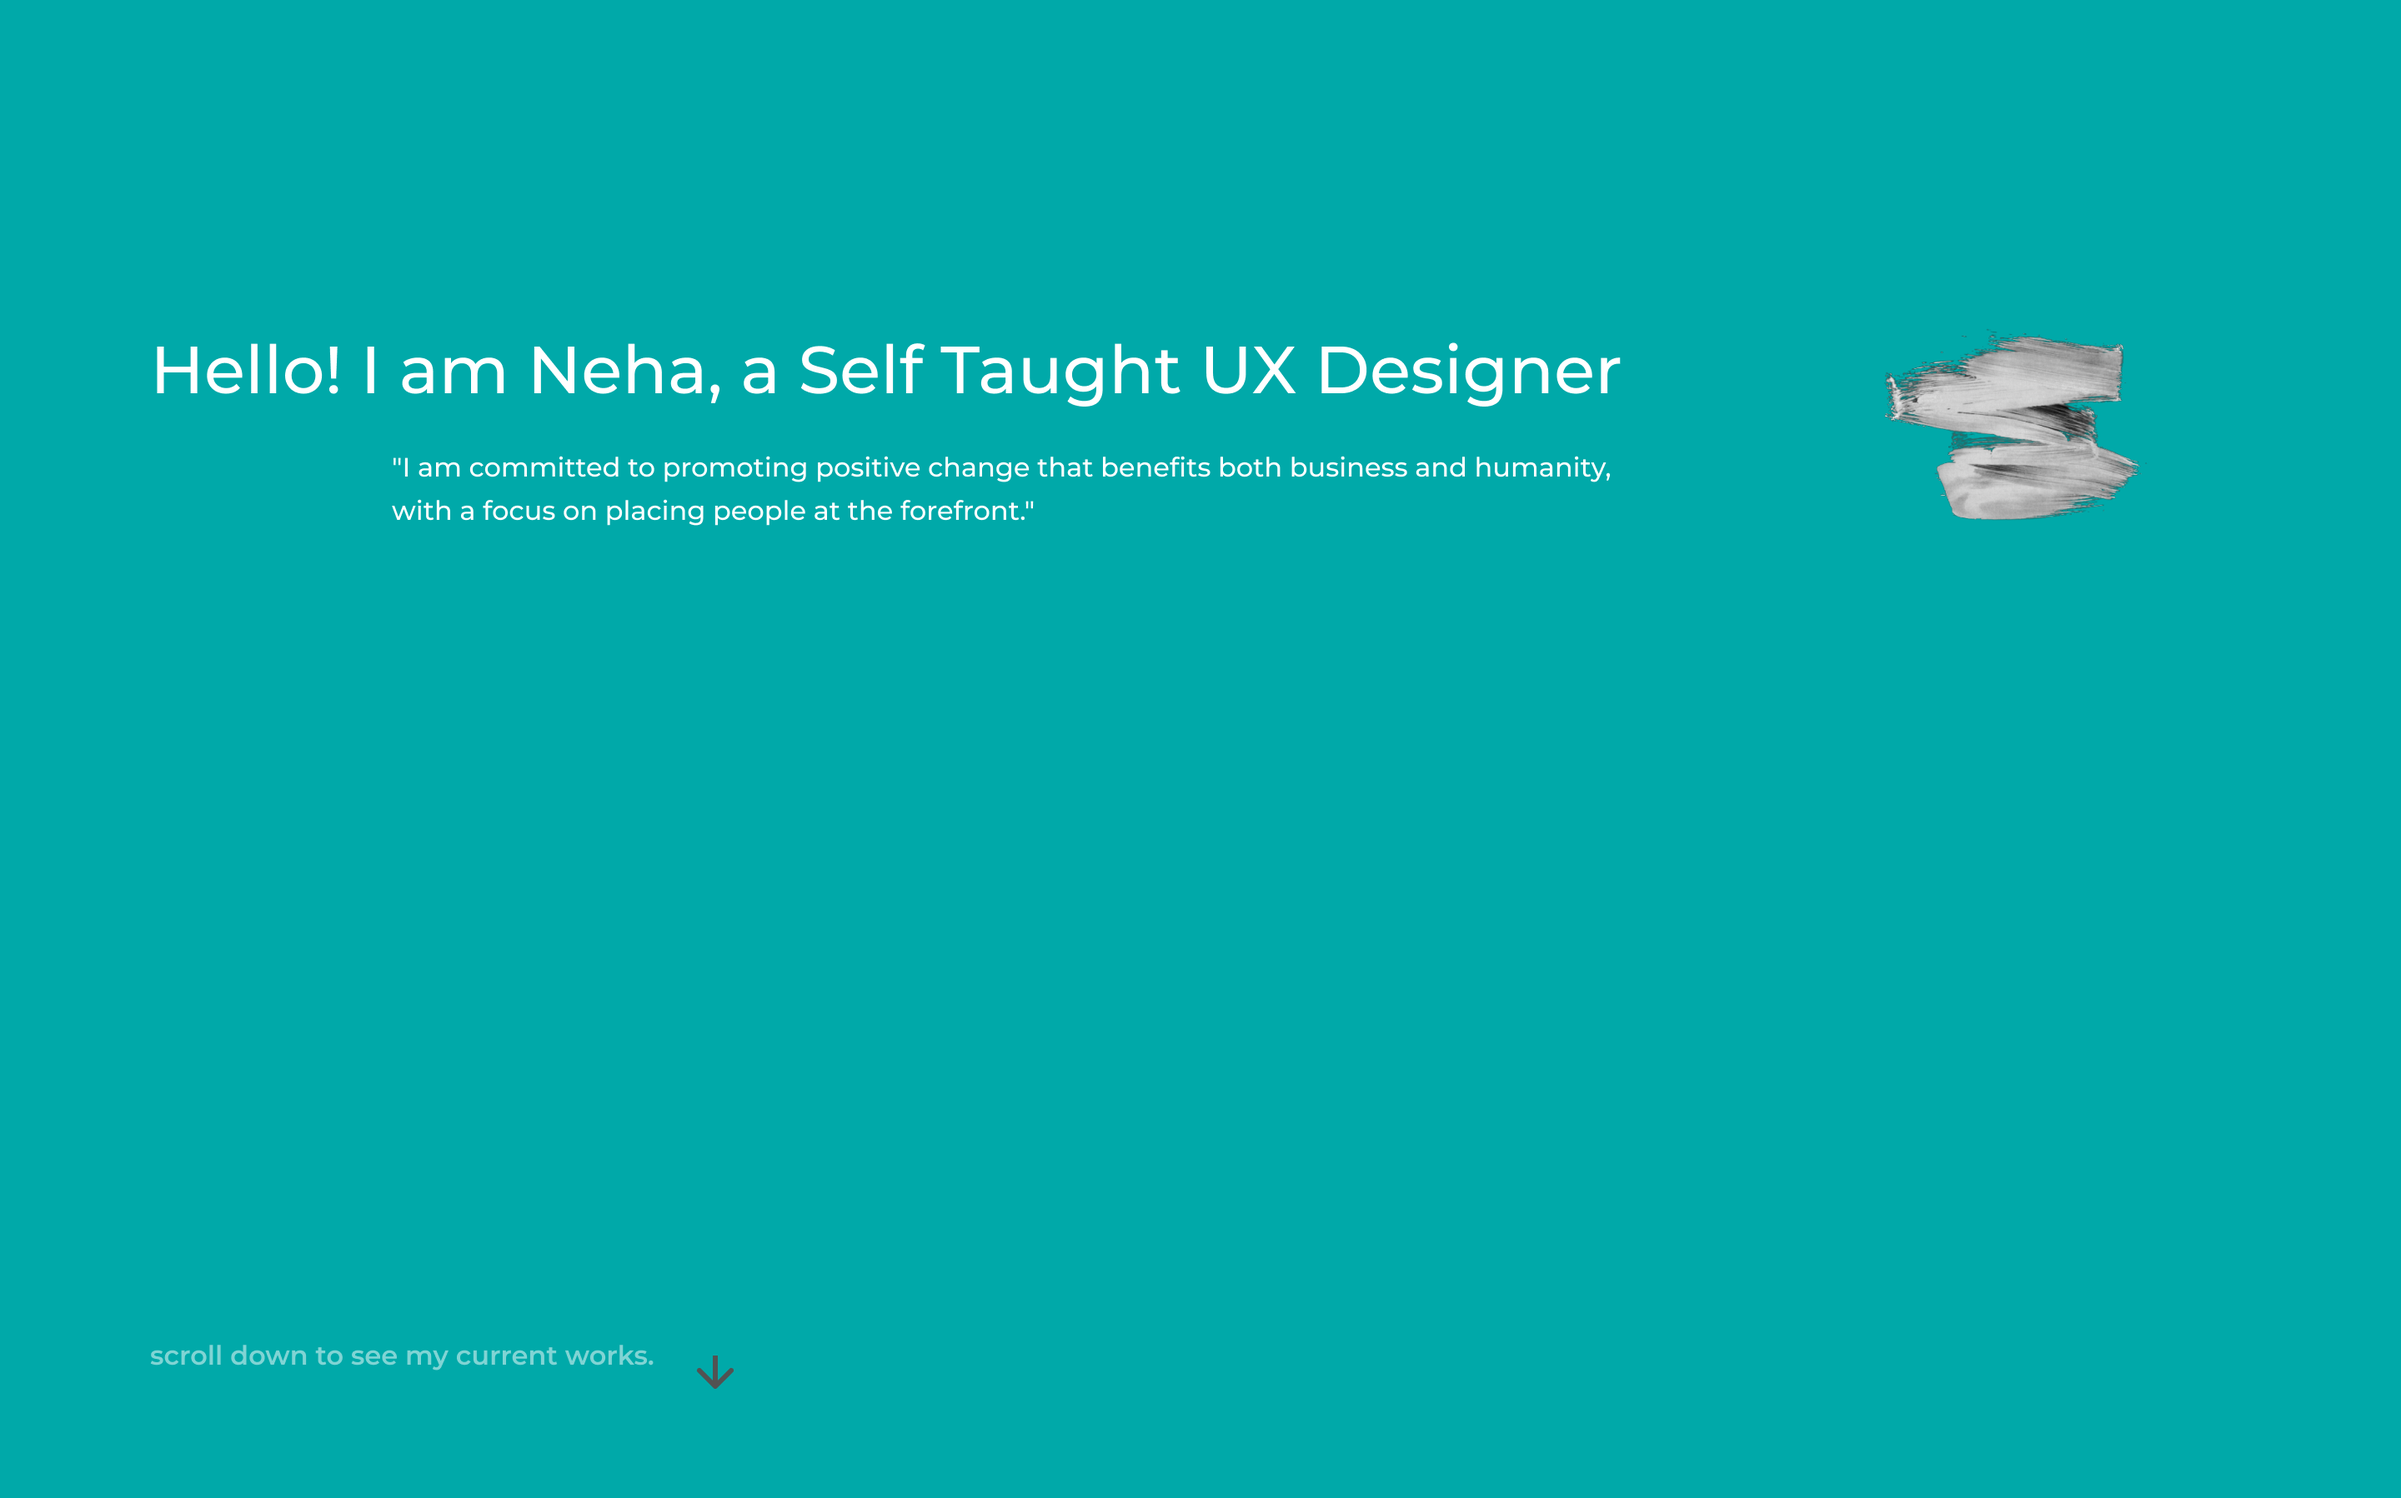
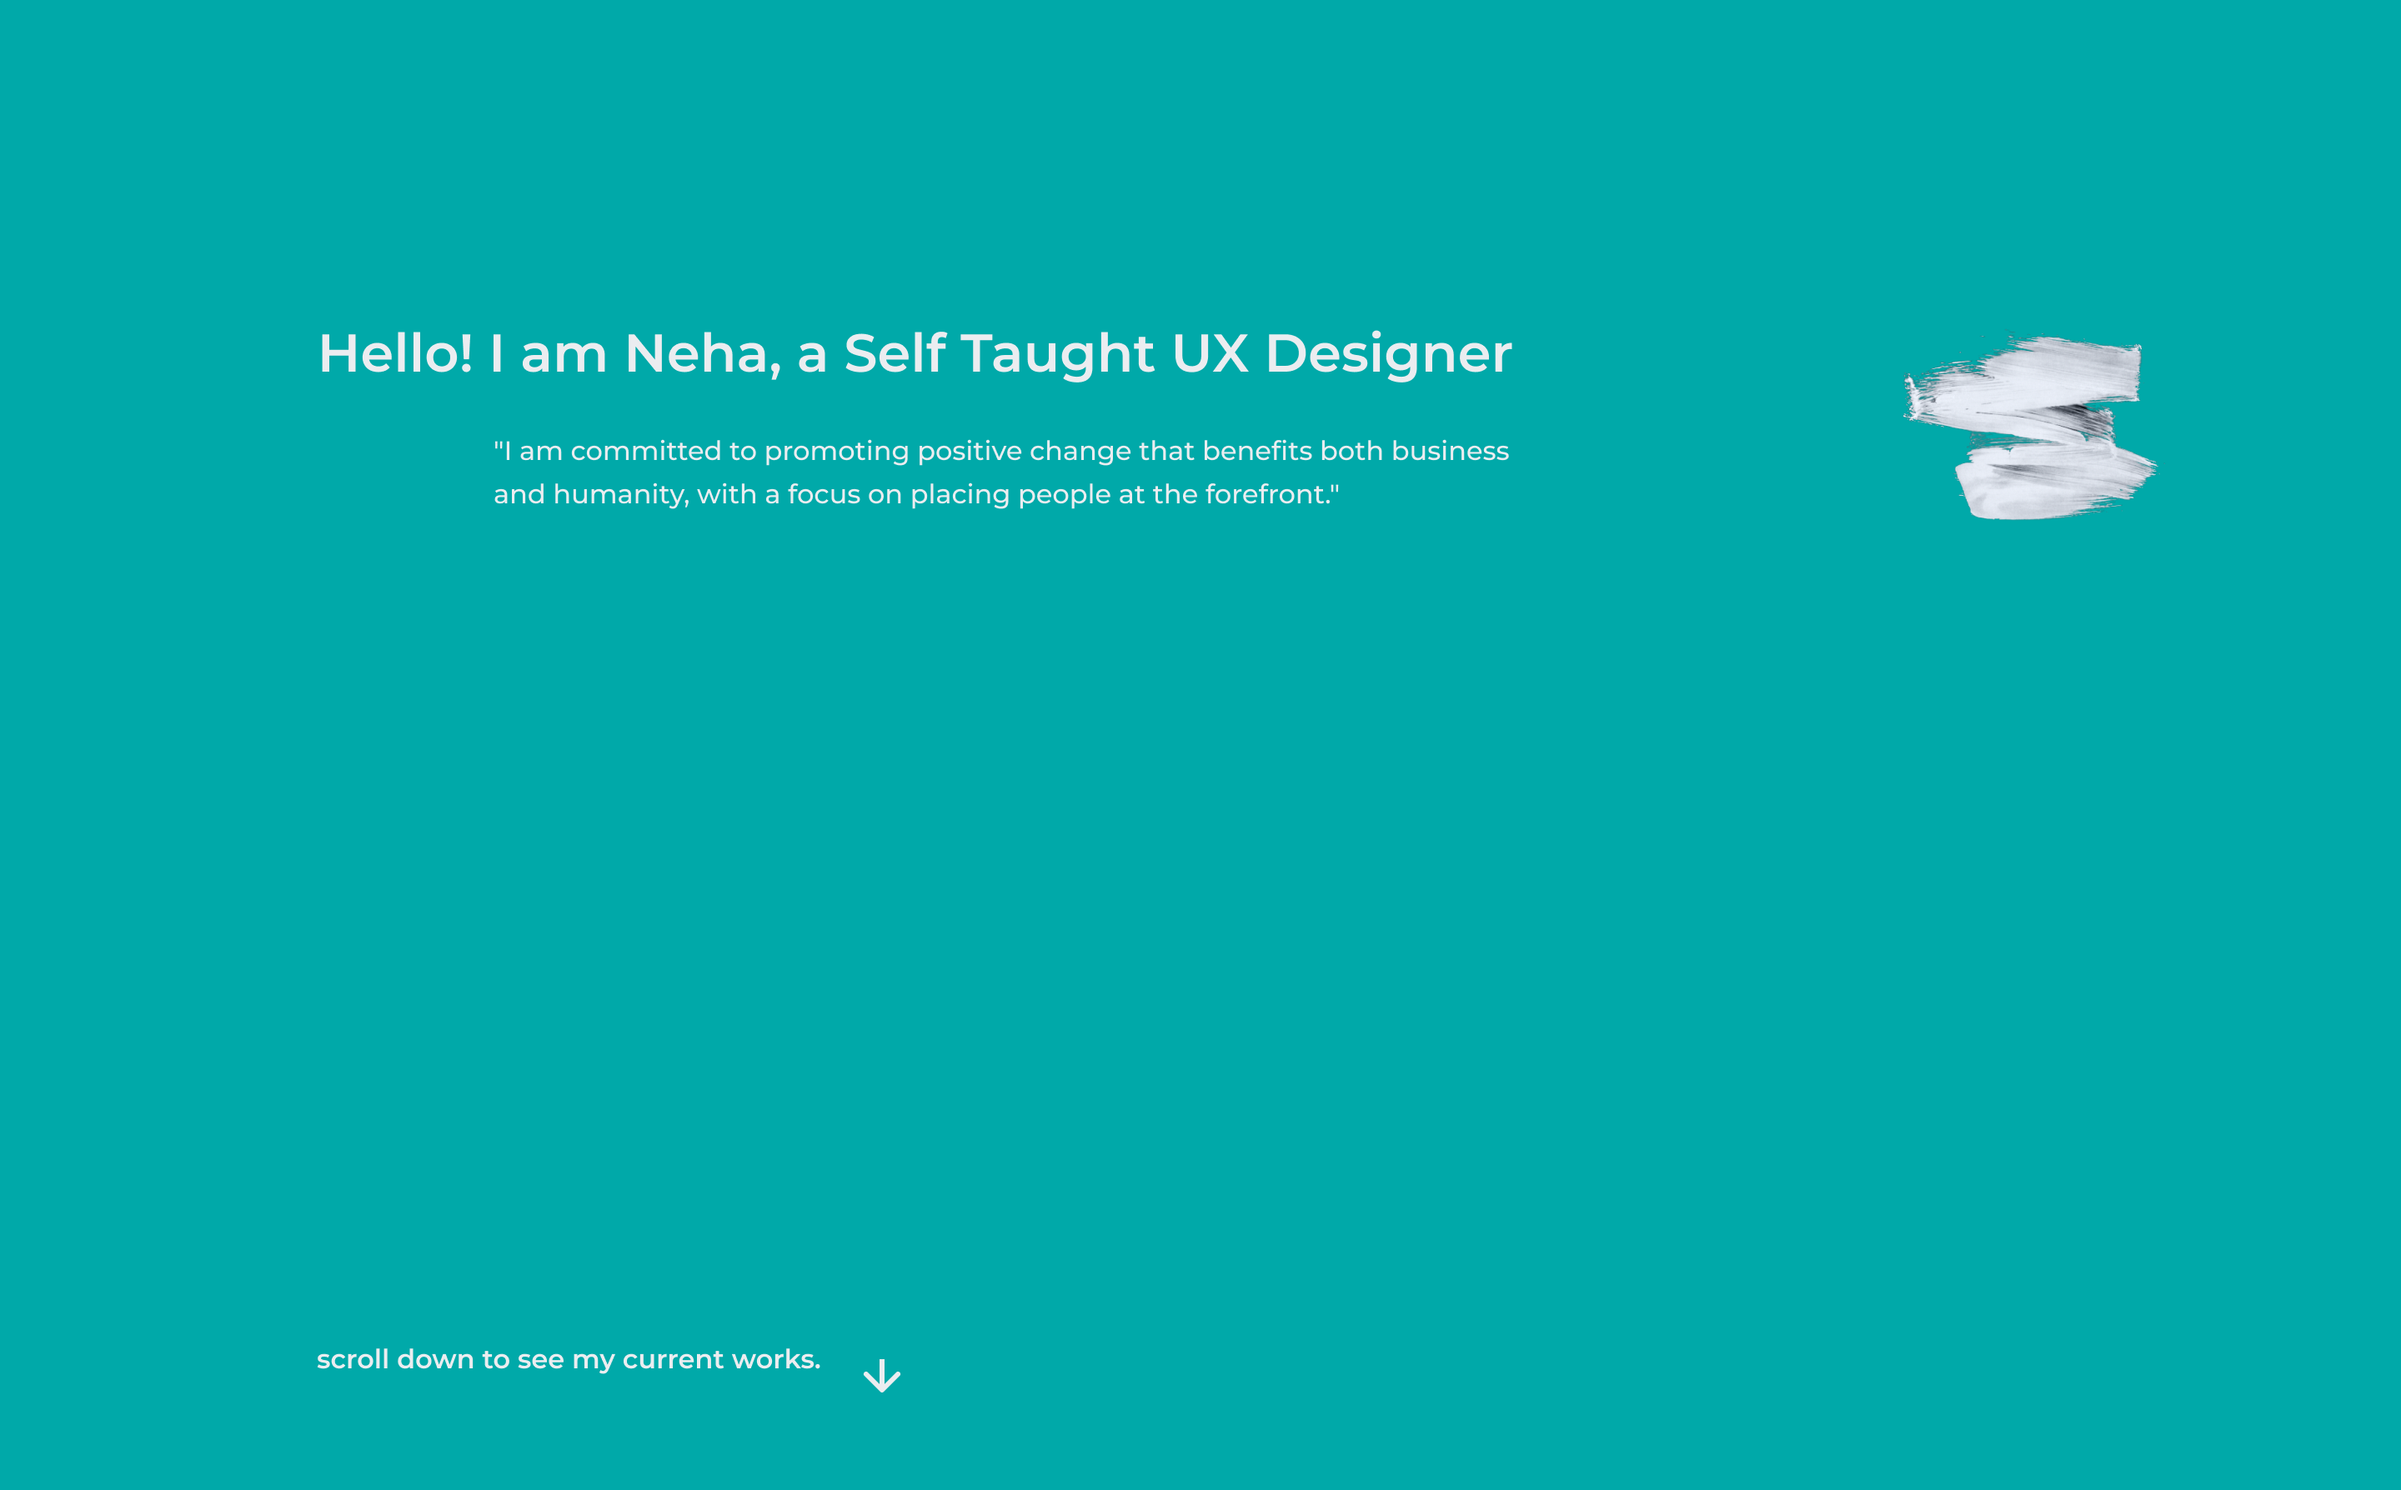
all changes fixed except for header

Changed region(s): [[0.0625, 0.2153, 0.6875, 0.3691], [0.7812, 0.2153, 0.9062, 0.3691], [0.0625, 0.8921, 0.3438, 0.9228]]

diff --git a/allwork.html b/allwork.html
@@ -1,0 +1,39 @@
+<!DOCTYPE html>
+<html lang="en">
+<head>
+  <meta charset="UTF-8">
+  <meta http-equiv="X-UA-Compatible" content="IE=edge">
+  <meta name="viewport" content="width=device-width, initial-scale=1.0">
+  <title>Document</title>
+  <link rel = "stylesheet" href="style.css">
+</head>
+<body>
+  <div id = "navbar">
+		<button id = "ncdesigns" onclick="location.href = 'index.html';";>
+			NC Designs
+		</button>
+			<button id = "work" onclick="location.href = 'allwork.html'">
+				Work
+			</button>
+			<button onclick="location.href = 'knowme.html' ";>
+				About
+			</button>
+			<button onclick = "location.href = 'myresume.pdf'";>
+				Resume
+			</button>
+	</div>
+  <img src = "case.png">
+  <a href="work 1.html">
+		<img src="work 1.png" id = "workbeg">
+	</a>
+	<a href="work 2.html">
+		<img src="work 2.png" alt="">
+	</a>
+	<a href="work 3.html">
+		<img src="work 3.png" alt="">
+	</a>
+	<a href="work 4.html">
+		<img src="work 4.png" alt="">
+	</a>
+</body>
+</html>

diff --git a/knowme.html b/knowme.html
@@ -1,0 +1,28 @@
+<!DOCTYPE html>
+<html lang="en">
+<head>
+  <meta charset="UTF-8">
+  <meta http-equiv="X-UA-Compatible" content="IE=edge">
+  <meta name="viewport" content="width=device-width, initial-scale=1.0">
+  <title>Document</title>
+  <link rel = "stylesheet" href="style.css">
+</head>
+<body>
+  <div id = "navbar">
+		<button id = "ncdesigns" onclick="location.href = 'index.html';";>
+			NC Designs
+		</button>
+			<button id = "work" onclick="location.href = 'allwork.html'">
+				Work
+			</button>
+			<button onclick="location.href = 'knowme.html' ";>
+				About
+			</button>
+			<button onclick = "location.href = 'myresume.pdf'";>
+				Resume
+			</button>
+	</div>
+  <img src="knowMe.png" alt="">
+  <img src = "footer.png">
+</body>
+</html>

diff --git a/index.html b/index.html
@@ -12,10 +12,10 @@
 		<button id = "ncdesigns" onclick="location.href = 'index.html';";>
 			NC Designs
 		</button>
-			<button id = "work" onclick="location.href = 'index.html#workbeg'">
+			<button id = "work" onclick="location.href = 'allwork.html'">
 				Work
 			</button>
-			<button onclick="location.href = 'index.html#knowme' ";>
+			<button onclick="location.href = 'knowme.html' ";>
 				About
 			</button>
 			<button onclick = "location.href = 'myresume.pdf'";>

diff --git a/work 1.html b/work 1.html
@@ -12,10 +12,10 @@
 		<button id = "ncdesigns" onclick="location.href = 'index.html';";>
 			NC Designs
 		</button>
-			<button id = "work" onclick="location.href = 'index.html#workbeg'">
+			<button id = "work" onclick="location.href = 'allwork.html'">
 				Work
 			</button>
-			<button onclick="location.href = 'index.html#knowme' ";>
+			<button onclick="location.href = 'knowme.html' ";>
 				About
 			</button>
 			<button onclick = "location.href = 'myresume.pdf'";>

diff --git a/work 2.html b/work 2.html
@@ -12,10 +12,10 @@
 		<button id = "ncdesigns" onclick="location.href = 'index.html';";>
 			NC Designs
 		</button>
-			<button id = "work" onclick="location.href = 'index.html#workbeg'">
+			<button id = "work" onclick="location.href = 'allwork.html'">
 				Work
 			</button>
-			<button onclick="location.href = 'index.html#knowme' ";>
+			<button onclick="location.href = 'knowme.html' ";>
 				About
 			</button>
 			<button onclick = "location.href = 'myresume.pdf'";>

diff --git a/work 3.html b/work 3.html
@@ -12,10 +12,10 @@
 		<button id = "ncdesigns" onclick="location.href = 'index.html';";>
 			NC Designs
 		</button>
-			<button id = "work" onclick="location.href = 'index.html#workbeg'">
+			<button id = "work" onclick="location.href = 'allwork.html'">
 				Work
 			</button>
-			<button onclick="location.href = 'index.html#knowme' ";>
+			<button onclick="location.href = 'knowme.html' ";>
 				About
 			</button>
 			<button onclick = "location.href = 'myresume.pdf'";>

diff --git a/work 4.html b/work 4.html
@@ -12,10 +12,10 @@
 		<button id = "ncdesigns" onclick="location.href = 'index.html';";>
 			NC Designs
 		</button>
-			<button id = "work" onclick="location.href = 'index.html#workbeg'">
+			<button id = "work" onclick="location.href = 'allwork.html'">
 				Work
 			</button>
-			<button onclick="location.href = 'index.html#knowme' ";>
+			<button onclick="location.href = 'knowme.html' ";>
 				About
 			</button>
 			<button onclick = "location.href = 'myresume.pdf'";>

diff --git a/style.css b/style.css
@@ -9,10 +9,6 @@ html{
 	scroll-behavior: smooth;
 }
 
-#navbar{
-	height: 112px;
-}
-
 button{
 	height: 24px;
 	font-family: 'Montserrat';
@@ -39,6 +35,4 @@ padding:0px;
 #work{
 margin-left: 1000px;
 }
-
-
 
